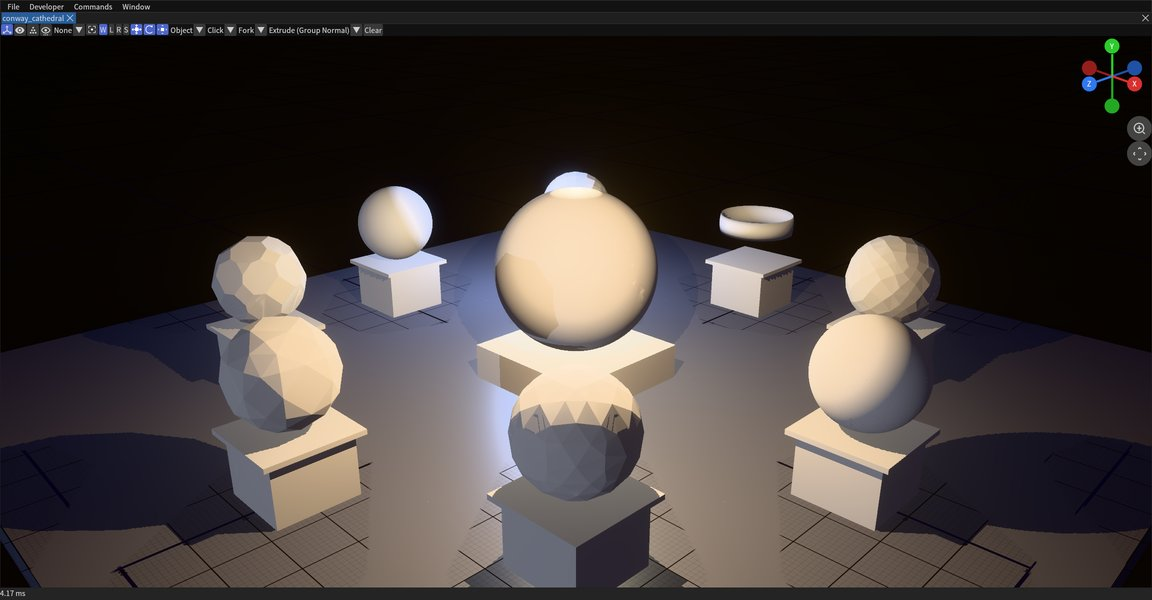
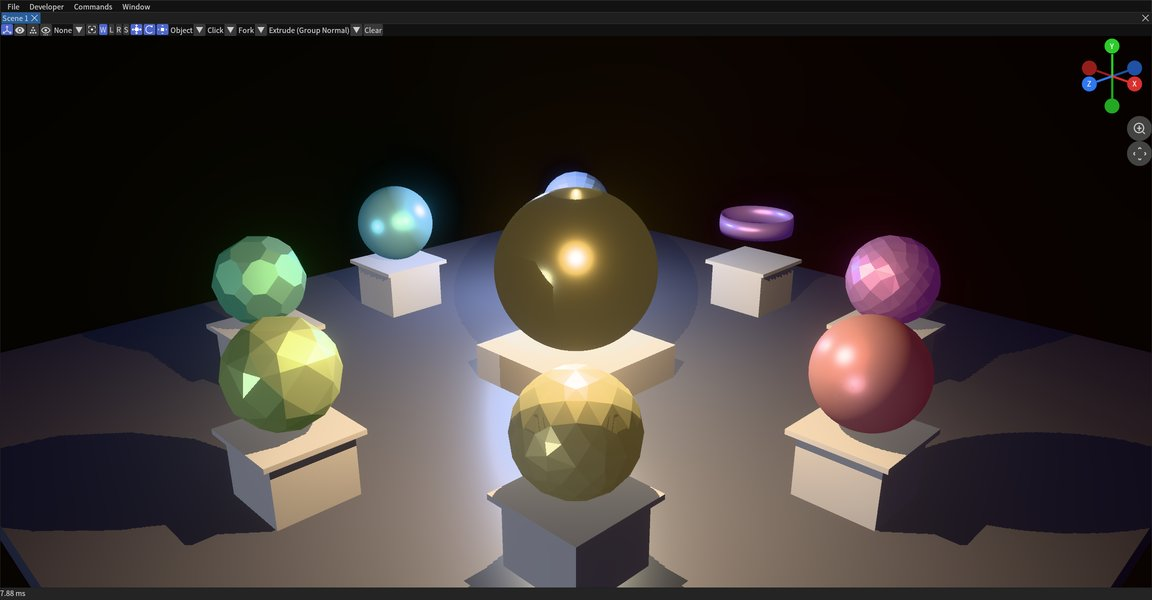
doc/ai_creations: gallery image fixes (spider, glade, cathedral, ships)
- 14 spider sentinel: the saved aftermath has the spider slid from the
  build center (shove recovery); re-framed on the body's actual pose.
- 13 windswept glade: recaptured from the fixed rebuild (willow
  curtains now hang from their branch tips).
- 01 conway cathedral: captured from a fresh script build - reloading
  the glb loses the geometry-graph sculptures' materials (recorded as
  an open bug in the skill).
- 16 sail ships: bow-quarter fleet view (three escorts bows-on, the
  Vespucci as foreground) instead of the stern-quarter hero shot.
- Timeline intro notes which images come from fresh builds and why.

diff --git a/doc/ai_creations.md b/doc/ai_creations.md
@@ -240,9 +240,12 @@ creations up beyond single showcase scenes.
 ## Creations timeline
 
 All seventeen creations, latest first. Each image is the creation's hero
-shot, captured with `capture_screenshot` from the saved scene
-(`res/editor/scenes/creations/<name>.glb`) loaded back into the editor -
-the same path any viewer takes. Dates are the scripts' first commits.
+shot, captured with `capture_screenshot` - most from the saved scene
+(`res/editor/scenes/creations/<name>.glb`) loaded back into the editor,
+the same path any viewer takes; creations 1 and 13 are captured from a
+fresh script build (geometry-graph mesh materials do not yet survive the
+glb round-trip, and the glade rebuild carried the willow-curtain joint
+fix). Dates are the scripts' first commits.
 
 ### 17 - Rockfall (2026-08-09)
 
